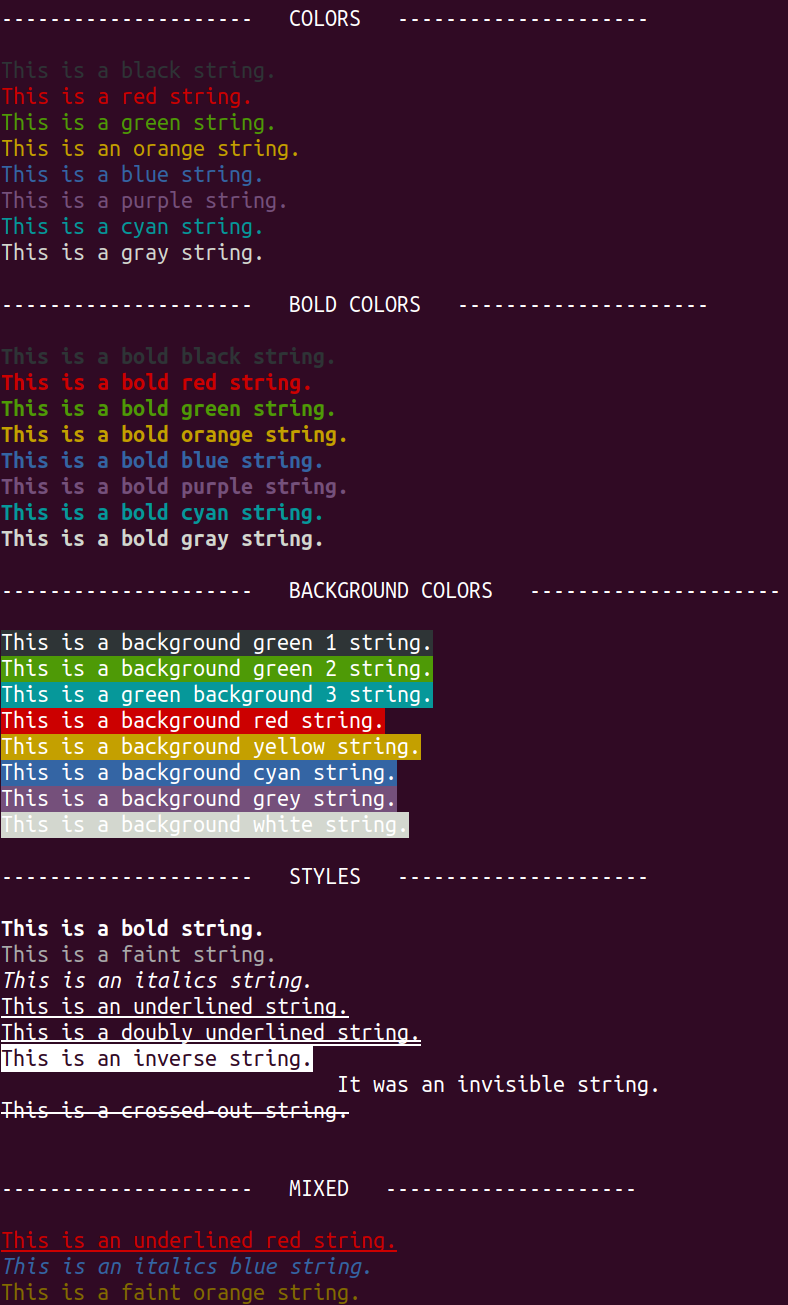
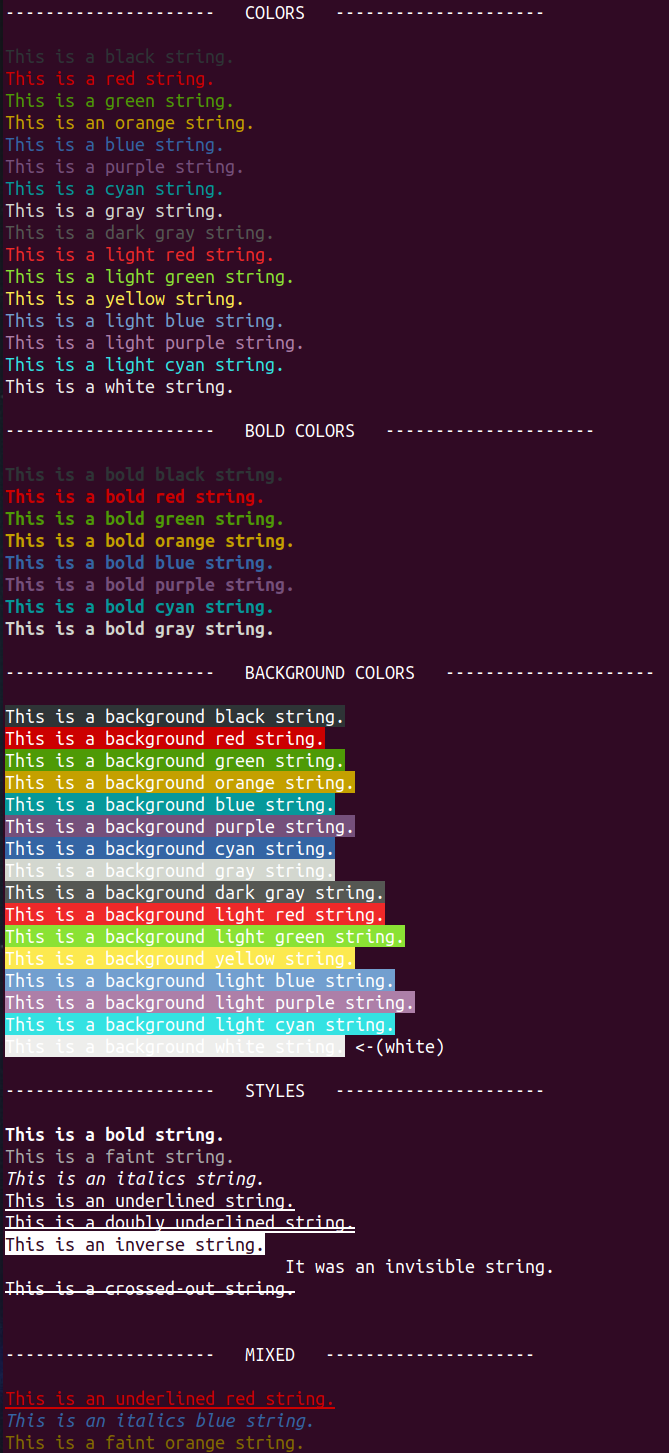
Added light colors and background light colors. Corrected some matchings of names with ANSII color code.

Changed region(s): [[0.0, 0.0, 0.8371, 1.0], [0.3587, 0.0, 0.4484, 0.0307]]

diff --git a/src/main.cpp b/src/main.cpp
@@ -20,6 +20,14 @@ int main ()
        << feat( col, "purple" ) << "This is a purple string." << reset( "color" ) << endl
        << feat( col, "cyan" ) << "This is a cyan string." << reset( "color" ) << endl
        << feat( col, "gray" ) << "This is a gray string." << reset( "color" ) << endl
+       << feat( col, "dk gray" ) << "This is a dark gray string." << reset( "color" ) << endl
+       << feat( col, "lt red" ) << "This is a light red string." << reset( "color" ) << endl
+       << feat( col, "lt green" ) << "This is a light green string." << reset( "color" ) << endl
+       << feat( col, "yellow" ) << "This is a yellow string." << reset( "color" ) << endl
+       << feat( col, "lt blue" ) << "This is a light blue string." << reset( "color" ) << endl
+       << feat( col, "lt purple" ) << "This is a light purple string." << reset( "color" ) << endl
+       << feat( col, "lt cyan" ) << "This is a light cyan string." << reset( "color" ) << endl
+       << feat( col, "white" ) << "This is a white string." << reset( "color" ) << endl
        
        << endl << "---------------------   BOLD COLORS   ---------------------" << endl << endl
        
@@ -34,14 +42,22 @@ int main ()
        
        << endl << "---------------------   BACKGROUND COLORS   ---------------------" << endl << endl
        
-       << feat( col, "bg green 1" ) << "This is a background green 1 string." << reset( "bg color" ) << endl
-       << feat( col, "bg green 2" ) << "This is a background green 2 string." << reset( "bg color" ) << endl
-       << feat( col, "bg green 3" ) << "This is a green background 3 string." << reset( "bg color" ) << endl
+       << feat( col, "bg black" ) << "This is a background black string." << reset( "bg color" ) << endl
        << feat( col, "bg red" ) << "This is a background red string." << reset( "bg color" ) << endl
-       << feat( col, "bg yellow" ) << "This is a background yellow string." << reset( "bg color" ) << endl
+       << feat( col, "bg green" ) << "This is a background green string." << reset( "bg color" ) << endl
+       << feat( col, "bg orange" ) << "This is a background orange string." << reset( "bg color" ) << endl
+       << feat( col, "bg blue" ) << "This is a background blue string." << reset( "bg color" ) << endl
+       << feat( col, "bg purple" ) << "This is a background purple string." << reset( "bg color" ) << endl
        << feat( col, "bg cyan" ) << "This is a background cyan string." << reset( "bg color" ) << endl
-       << feat( col, "bg grey" ) << "This is a background grey string." << reset( "bg color" ) << endl
-       << feat( col, "bg white" ) << "This is a background white string." << reset( "bg color" ) << endl
+       << feat( col, "bg gray" ) << "This is a background gray string." << reset( "bg color" ) << endl
+       << feat( col, "bg dk gray" ) << "This is a background dark gray string." << reset( "bg color" ) << endl
+       << feat( col, "bg lt red" ) << "This is a background light red string." << reset( "bg color" ) << endl
+       << feat( col, "bg lt green" ) << "This is a background light green string." << reset( "bg color" ) << endl
+       << feat( col, "bg yellow" ) << "This is a background yellow string." << reset( "bg color" ) << endl
+       << feat( col, "bg lt blue" ) << "This is a background light blue string." << reset( "bg color" ) << endl
+       << feat( col, "bg lt purple" ) << "This is a background light purple string." << reset( "bg color" ) << endl
+       << feat( col, "bg lt cyan" ) << "This is a background light cyan string." << reset( "bg color" ) << endl
+       << feat( col, "bg white" ) << "This is a background white string." << reset( "bg color" ) << " <-(white)" << endl
        
        << endl << "---------------------   STYLES   ---------------------" << endl << endl
        

diff --git a/src/osmanip.cpp b/src/osmanip.cpp
@@ -15,9 +15,18 @@ std::map <std::string, std::string> col
   { "error", "Inserted color" },
   
   //Color variables:
-  { "black", "\033[30m" }, { "red", "\033[31m" }, { "green", "\033[32m" }, { "orange", "\033[33m" }, { "blue", "\033[34m" }, { "purple", "\033[35m" }, 
-  { "cyan", "\033[36m" }, { "gray", "\033[37m" }, { "bg green 1", "\033[40m" }, { "bg green 2", "\033[42m" }, { "bg green 3", "\033[46m" }, 
-  { "bg red", "\033[41m" }, { "bg yellow", "\033[43m" }, { "bg cyan", "\033[44m" }, { "bg grey", "\033[45m" }, { "bg white", "\033[47m" },
+  { "black", "\033[30m" }, { "red", "\033[31m" }, { "green", "\033[32m" }, { "orange", "\033[33m" }, 
+  { "blue", "\033[34m" }, { "purple", "\033[35m" }, { "cyan", "\033[36m" }, { "gray", "\033[37m" }, 
+  { "dk gray", "\033[90m" }, { "lt red", "\033[91m" },  { "lt green", "\033[92m" }, { "yellow", "\033[93m" },
+  { "lt blue", "\033[94m"}, { "lt purple", "\033[95m" }, { "lt cyan", "\033[96m" }, { "white", "\033[97m" },
+  
+  //Background color variables:
+  { "bg black", "\033[40m" }, { "bg red", "\033[41m" }, { "bg green", "\033[42m" }, { "bg orange", "\033[43m" },
+  { "bg cyan", "\033[44m" }, { "bg purple", "\033[45m" }, { "bg blue", "\033[46m" }, { "bg gray", "\033[47m" },
+  { "bg dk gray", "\033[100m"}, { "bg lt red", "\033[101m" },  { "bg lt green", "\033[102m" }, { "bg yellow", "\033[103m" },
+  { "bg lt blue", "\033[104m"}, { "bg lt purple", "\033[105m" }, { "bg lt cyan", "\033[106m" }, { "bg white", "\033[107m" },
+  
+  //Bold color variables:
   { "bd black", "\033[1;30m"}, { "bd red", "\033[1;31m" }, { "bd green", "\033[1;32m" }, { "bd orange", "\033[1;33m" }, 
   { "bd blue", "\033[1;34m" }, { "bd purple", "\033[1;35m"}, { "bd cyan", "\033[1;36m" }, { "bd gray", "\033[1;37m" }
  };
@@ -29,8 +38,9 @@ std::map <std::string, std::string> sty
   { "error", "Inserted style" },
   
   //Color variables:
-  { "bold", "\033[1m" }, { "faint", "\033[2m" }, { "italics", "\033[3m" }, { "underlined", "\033[4m" }, { "blink", "\033[5m" }, { "inverse", "\033[7m" }, 
-  { "invisible", "\033[8m" }, { "crossed", "\033[9m" },  {"d-underlined", "\033[21m" }
+  { "bold", "\033[1m" }, { "faint", "\033[2m" }, { "italics", "\033[3m" }, { "underlined", "\033[4m" }, 
+  { "blink", "\033[5m" }, { "inverse", "\033[7m" }, { "invisible", "\033[8m" }, { "crossed", "\033[9m" },
+  {"d-underlined", "\033[21m" }
  };
  
 //Definition of the "reset" map:
@@ -46,8 +56,8 @@ std::map <std::string, std::string> rst
   { "color", "\033[39m" }, { "bg color", "\033[49m" }, {"bd color", "\033[22m \033[39m"  },
   
   //Reset style variables:
-  { "bd/ft", "\033[22m" }, { "italics", "\033[23m" }, { "underlined", "\033[24m" }, { "blink", "\033[25m" }, { "inverse", "\033[27m" },
-  { "invisible", "\033[28m" }, { "crossed", "\033[29m" },
+  { "bd/ft", "\033[22m" }, { "italics", "\033[23m" }, { "underlined", "\033[24m" }, { "blink", "\033[25m" }, 
+  { "inverse", "\033[27m" }, { "invisible", "\033[28m" }, { "crossed", "\033[29m" },
  };
  
 //Definiton of the "feat" function:

diff --git a/README.md b/README.md
@@ -139,14 +139,30 @@ List of the currently defined std::map objects:
   * `purple` / `\033[35m`
   * `cyan` / `\033[36m`
   * `gray` / `\033[37m`
-  * `bg green 1` / `\033[40m`
+  * `dk gray` / `\033[90m`
+  * `lt red` / `\033[91m`
+  * `lt green` / `\033[92m`
+  * `yellow` / `\033[93m`
+  * `lt blue` / `\033[94m`
+  * `lt purple` / `\033[95m`
+  * `lt cyan` / `\033[96m`
+  * `white` / `\033[97m`
+  * `bg black` / `\033[40m`
   * `bg red` / `\033[41m`
-  * `bg green 2` / `\033[42m`
-  * `bg yellow` / `\033[43m`
+  * `bg green` / `\033[42m`
+  * `bg orange` / `\033[43m`
   * `bg cyan` / `\033[44m`
-  * `bg grey` / `\033[45m`
-  * `bg green 3` / `\033[46m`
-  * `bg white` / `\033[47m`
+  * `bg purple` / `\033[45m`
+  * `bg blue` / `\033[46m`
+  * `bg gray` / `\033[47m`
+  * `bg dk gray` / `\033[100m`
+  * `bg lt red` / `\033[101m`
+  * `bg lt green` / `\033[102m`
+  * `bg yellow` / `\033[103m`
+  * `bg lt blue` / `\033[104m`
+  * `bg lt purple` / `\033[105m`
+  * `bg ly cyan` / `\033[106m`
+  * `bg white` / `\033[107m`
   * `bd black` / `\033[1;30m`
   * `bd red` / `\033[1;31m`
   * `bd green` / `\033[1;32m`
